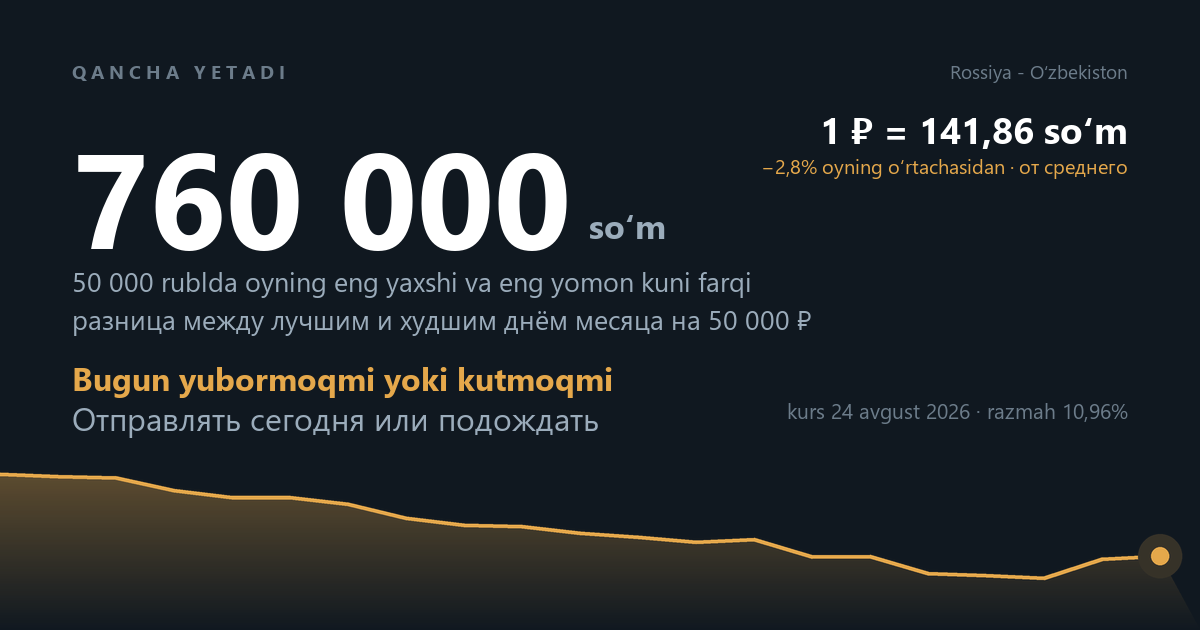
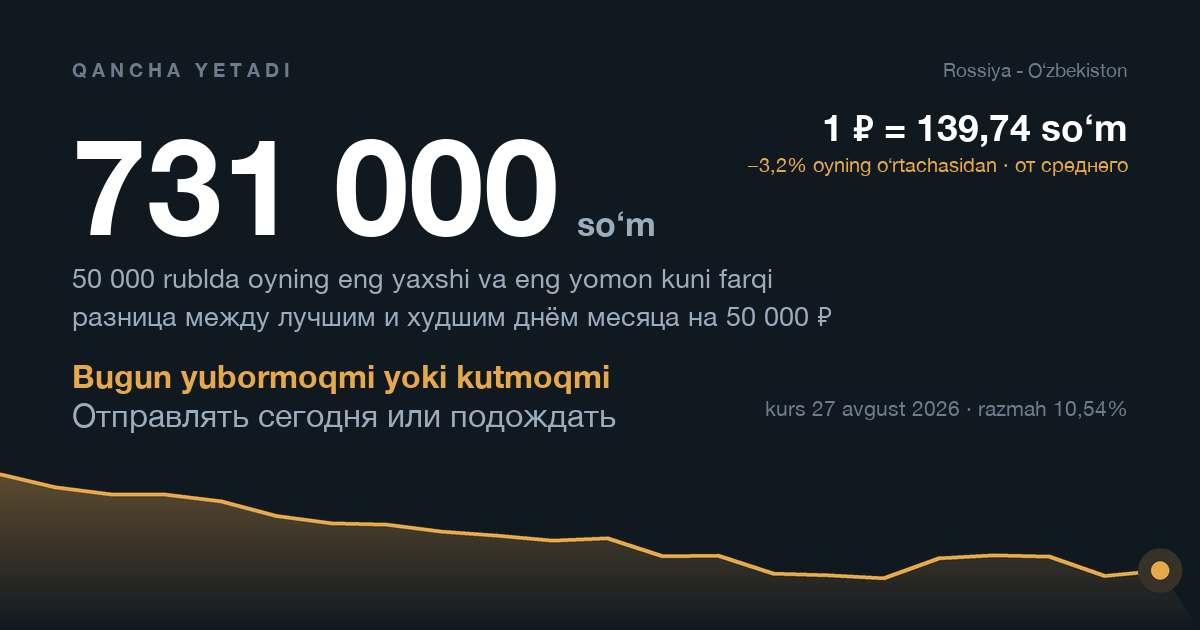
fix(oblozhka): собирать обложку на macOS и не терять знак рубля
Подбор шрифта знал только пути Windows и Linux. На macOS не находилось
ничего, и сборка обложки падала с SystemExit — а вместе с ней obnovit_vsyo.py
не доходил до поднятия ?v= в index.html, из-за чего Telegram продолжал бы
отдавать людям старую версию мини-аппа из кеша.

Добавлены Helvetica Neue и PT Sans с номерами начертаний внутри .ttc.
Arial, взятый первым подходящим, оказался ловушкой: кириллица в нём есть,
а знака рубля U+20BD нет, и PIL молча рисовал пустой квадрат посреди
«1 ₽ = 139,74» и «50 000 ₽». Поэтому шрифт теперь проверяется на ₽ и
отбраковывается, если не умеет его рисовать; если других нет — предупреждение
в журнал, а не тихая дыра в картинке.

Заодно веса разнесены по двум спискам вместо срезов одного. Раньше обычный
вес брался как SHRIFTY[2:] + SHRIFTY[:2], и на Linux первым в этом порядке
шёл DejaVuSans-Bold — обычному тексту доставался жирный шрифт.

Данные пересобраны из живых источников на курс 27 августа, версия скриптов 50.
proverit.py: все 8 наборов зелёные.

.gitignore: .venv/ — окружение для Pillow и sqlglot, в проект не входит.

Claude-Session: https://claude.ai/code/session_013XMc1hSP7nmokB4Uwgp8vk

diff --git a/kurs.html b/kurs.html
@@ -34,7 +34,7 @@
 <meta property="og:description" content="Отправлять сегодня или подождать. Курс ЦБ Узбекистана, курс переводов и разница в сумах на вашей сумме.">
 <meta property="og:type" content="website">
 <meta property="og:url" content="https://m1llerzz.github.io/KURS-/kurs.html">
-<meta property="og:image" content="https://m1llerzz.github.io/KURS-/oblozhka.png?v=20260824">
+<meta property="og:image" content="https://m1llerzz.github.io/KURS-/oblozhka.png?v=20260827">
 <meta property="og:image:width" content="1200">
 <meta property="og:image:height" content="630">
 <meta name="twitter:card" content="summary_large_image">
@@ -119,9 +119,9 @@
 </p>
 
 <div class="kurs">
-  <div class="big"><span data-zapas="kurs">141,86</span> сум за 1 ₽</div>
+  <div class="big"><span data-zapas="kurs">139,74</span> сум за 1 ₽</div>
   <div class="podpis">
-    Курс ЦБ Узбекистана на <span data-zapas="data_ru">24 августа 2026</span>.
+    Курс ЦБ Узбекистана на <span data-zapas="data_ru">27 августа 2026</span>.
     <span id="kurs-verdikt">Заметно ниже среднего за месяц.</span>
   </div>
 </div>
@@ -149,7 +149,7 @@
        публикацию, и круглое «тридцать» рядом с настоящими датами читается
        как нестыковка. Даты подставляет obnovit_zapas.py. -->
   Это главное, что стоит знать про переводы в Узбекистан, и об этом молчат
-  все. Замер по курсам ЦБ <span data-zapas="period_ru">с 24 июля по 24 августа 2026</span>, на переводе 50 000 ₽:
+  все. Замер по курсам ЦБ <span data-zapas="period_ru">с 29 июля по 27 августа 2026</span>, на переводе 50 000 ₽:
 </p>
 
 <div class="obertka">
@@ -159,21 +159,21 @@
   </thead>
   <tbody>
     <tr><td>День отправки</td>
-        <td class="num"><span data-zapas="razmah_percent">10,96</span>%</td>
-        <td class="num"><span data-zapas="razmah_sum">760 000</span></td></tr>
+        <td class="num"><span data-zapas="razmah_percent">10,54</span>%</td>
+        <td class="num"><span data-zapas="razmah_sum">731 000</span></td></tr>
     <tr><td>Сервис перевода</td>
-        <td class="num"><span data-zapas="nacenka_percent">2,72</span>%</td>
-        <td class="num"><span data-zapas="nacenka_sum">193 000</span></td></tr>
+        <td class="num"><span data-zapas="nacenka_percent">4,11</span>%</td>
+        <td class="num"><span data-zapas="nacenka_sum">287 000</span></td></tr>
     <tr><td>Банк получателя</td><td class="num">0,84%</td><td class="num">55 000</td></tr>
   </tbody>
 </table>
 </div>
 
 <p>
-  За этот месяц курс рубля прошёл путь от <span data-zapas="kurs_max">153,87</span>
+  За этот месяц курс рубля прошёл путь от <span data-zapas="kurs_max">153,29</span>
   до <span data-zapas="kurs_min">138,67</span> сума. Человек, отправивший в
   худший день месяца вместо лучшего, недосчитался
-  <span data-zapas="razmah_sum">760 000</span> сум на переводе 50 000 ₽.
+  <span data-zapas="razmah_sum">731 000</span> сум на переводе 50 000 ₽.
   Комиссия рядом с этим — мелочь.
 </p>
 
@@ -188,11 +188,11 @@
 <p>
   Официальный курс ЦБ — это не тот курс, по которому идёт перевод. Сервисы
   считают по своему, и разница нигде не написана отдельной строкой.
-  На <span data-zapas="data_ru">24 августа 2026</span> года: официальный
-  <span data-zapas="kurs">141,86</span>, курс переводов
-  <span data-zapas="kurs_servisa">138,00</span>. Разница
-  <span data-zapas="nacenka_percent">2,72</span>% — это
-  <span data-zapas="nacenka_sum">193 000</span> сум на переводе 50 000 ₽.
+  На <span data-zapas="data_ru">27 августа 2026</span> года: официальный
+  <span data-zapas="kurs">139,74</span>, курс переводов
+  <span data-zapas="kurs_servisa">134,00</span>. Разница
+  <span data-zapas="nacenka_percent">4,11</span>% — это
+  <span data-zapas="nacenka_sum">287 000</span> сум на переводе 50 000 ₽.
 </p>
 
 <p>
@@ -217,16 +217,16 @@
 
 <p class="vopros">Какой сегодня курс рубля к суму?</p>
 <p class="otvet">
-  На <span data-zapas="data_ru">24 августа 2026</span> официальный курс
-  ЦБ Узбекистана — <span data-zapas="kurs">141,86</span> сума за
+  На <span data-zapas="data_ru">27 августа 2026</span> официальный курс
+  ЦБ Узбекистана — <span data-zapas="kurs">139,74</span> сума за
   1 рубль. Перевод идёт по курсу около
-  <span data-zapas="kurs_servisa">138,00</span> сума за рубль.
+  <span data-zapas="kurs_servisa">134,00</span> сума за рубль.
 </p>
 
 <p class="vopros">Сколько дойдёт до карты при переводе 50 000 рублей?</p>
 <p class="otvet">
-  По курсу переводов <span data-zapas="kurs_servisa">138,00</span> —
-  около <span data-zapas="itog_50k">6 900 000</span> сумов, если сервис не
+  По курсу переводов <span data-zapas="kurs_servisa">134,00</span> —
+  около <span data-zapas="itog_50k">6 700 000</span> сумов, если сервис не
   берёт комиссию сверху. Комиссии сервисы не публикуют, поэтому это
   верхняя граница. Точная сумма зависит от дня отправки и от банка,
   который зачисляет деньги на карту.
@@ -237,7 +237,7 @@
   Разница между сервисами в этом коридоре почти нулевая: на открытых
   данных их два, и курс у них одинаковый. Настоящая разница — в дне
   отправки: за месяц курс менялся на
-  <span data-zapas="razmah_percent">10,96</span>%.
+  <span data-zapas="razmah_percent">10,54</span>%.
 </p>
 
 <p class="vopros">Стоит ли подождать с переводом?</p>
@@ -267,9 +267,9 @@
 </p>
 
 <div class="kurs">
-  <div class="big"><span data-zapas="kurs">141,86</span> soʻm — 1 ₽</div>
+  <div class="big"><span data-zapas="kurs">139,74</span> soʻm — 1 ₽</div>
   <div class="podpis">
-    Markaziy bank kursi, <span data-zapas="data_uz">24 avgust 2026</span>.
+    Markaziy bank kursi, <span data-zapas="data_uz">27 avgust 2026</span>.
   </div>
 </div>
 
@@ -282,19 +282,19 @@
 <h3>Eng koʻp pulni yuborish KUNI hal qiladi</h3>
 
 <p>
-  Oʻlchov (<span data-zapas="period_uz">24 iyul — 24 avgust 2026</span>), 50 000 rubl uchun: yuborish kuni —
-  <span data-zapas="razmah_percent">10,96</span>% yoki
-  <span data-zapas="razmah_sum">760 000</span> soʻm; servis tanlash —
-  <span data-zapas="nacenka_percent">2,72</span>% yoki
-  <span data-zapas="nacenka_sum">193 000</span> soʻm; qabul qiluvchi
+  Oʻlchov (<span data-zapas="period_uz">29 iyul — 27 avgust 2026</span>), 50 000 rubl uchun: yuborish kuni —
+  <span data-zapas="razmah_percent">10,54</span>% yoki
+  <span data-zapas="razmah_sum">731 000</span> soʻm; servis tanlash —
+  <span data-zapas="nacenka_percent">4,11</span>% yoki
+  <span data-zapas="nacenka_sum">287 000</span> soʻm; qabul qiluvchi
   bank — 0,84%.
 </p>
 
 <p>
-  Bir oyda rubl kursi <span data-zapas="kurs_max">153,87</span> dan
+  Bir oyda rubl kursi <span data-zapas="kurs_max">153,29</span> dan
   <span data-zapas="kurs_min">138,67</span> gacha tushdi. Eng yomon kunda
   yuborgan odam eng yaxshi kunga nisbatan
-  <span data-zapas="razmah_sum">760 000</span> soʻm kam oldi.
+  <span data-zapas="razmah_sum">731 000</span> soʻm kam oldi.
   Komissiya bunga nisbatan mayda gap.
 </p>
 
@@ -302,11 +302,11 @@
 
 <p>
   Rasmiy kurs — bu oʻtkazma kursi emas.
-  <span data-zapas="data_uz">24 avgust 2026</span>: rasmiy
-  <span data-zapas="kurs">141,86</span>, oʻtkazma
-  <span data-zapas="kurs_servisa">138,00</span>. Farqi
-  <span data-zapas="nacenka_percent">2,72</span>% — 50 000 rublda
-  <span data-zapas="nacenka_sum">193 000</span> soʻm. Bu komissiya
+  <span data-zapas="data_uz">27 avgust 2026</span>: rasmiy
+  <span data-zapas="kurs">139,74</span>, oʻtkazma
+  <span data-zapas="kurs_servisa">134,00</span>. Farqi
+  <span data-zapas="nacenka_percent">4,11</span>% — 50 000 rublda
+  <span data-zapas="nacenka_sum">287 000</span> soʻm. Bu komissiya
   emas, bu kurs, va u hech qayerda alohida yozilmagan.
 </p>
 

diff --git a/data.js b/data.js
@@ -58,14 +58,14 @@ window.SERVICES = [
     ],
     "fee_fixed": 0,
     "fee_percent": 0,
-    "rate_rub_uzs": 138.0,
+    "rate_rub_uzs": 131.0,
     "limit_per_operation": 100000,
     "delivery_minutes": 60,
     "incoming_fee": 0,
-    "checked_at": "2026-08-24T16:31:51+00:00",
+    "checked_at": "2026-08-27T18:51:19+00:00",
     "verified_by_receipt": false,
     "fee_unknown": false,
-    "nacenka_percent": 2.72,
+    "nacenka_percent": 6.25,
     "url": "https://yubor.ru/",
     "limit_min": 9000,
     "istochnik_uslovij": "yubor.ru, 16.08.2026"
@@ -79,14 +79,14 @@ window.SERVICES = [
     ],
     "fee_fixed": 29,
     "fee_percent": 0,
-    "rate_rub_uzs": 138.0,
+    "rate_rub_uzs": 134.0,
     "limit_per_operation": 200000,
     "delivery_minutes": 60,
     "incoming_fee": 0,
-    "checked_at": "2026-08-24T16:31:51+00:00",
+    "checked_at": "2026-08-27T18:51:19+00:00",
     "verified_by_receipt": false,
     "fee_unknown": false,
-    "nacenka_percent": 2.72,
+    "nacenka_percent": 4.11,
     "url": "https://avosend.com/",
     "limit_v_sutki": 380000,
     "limit_v_mesyac": 1500000,
@@ -112,7 +112,7 @@ window.BANKS = [];
  * Флаг zapas заставляет приложение честно предупредить: без свежего
  * курса весь расчёт становится ориентировочным.
  */
-window.KURSY_ZAPAS = {"usd_uzs": 11853.55, "rub_uzs": 141.86, "date": "24.08.2026", "zapas": true};
+window.KURSY_ZAPAS = {"usd_uzs": 11823.69, "rub_uzs": 139.74, "date": "27.08.2026", "zapas": true};
 
 /**
  * Запасная история курса рубля за 30 дней (курсы ЦБ, замер 15.08.2026).
@@ -120,15 +120,15 @@ window.KURSY_ZAPAS = {"usd_uzs": 11853.55, "rub_uzs": 141.86, "date": "24.08.202
  * главная ценность приложения, и терять его при сбое сети нельзя.
  */
 window.HISTORY_ZAPAS = [
-  { date: '2026-07-24', rub_uzs: 153.75 }, { date: '2026-07-27', rub_uzs: 153.87 },
-  { date: '2026-07-28', rub_uzs: 153.49 }, { date: '2026-07-29', rub_uzs: 153.29 },
-  { date: '2026-07-30', rub_uzs: 151.46 }, { date: '2026-07-31', rub_uzs: 150.44 },
-  { date: '2026-08-03', rub_uzs: 150.42 }, { date: '2026-08-04', rub_uzs: 149.48 },
-  { date: '2026-08-05', rub_uzs: 147.42 }, { date: '2026-08-06', rub_uzs: 146.37 },
-  { date: '2026-08-07', rub_uzs: 146.19 }, { date: '2026-08-10', rub_uzs: 145.21 },
-  { date: '2026-08-11', rub_uzs: 144.64 }, { date: '2026-08-12', rub_uzs: 143.93 },
-  { date: '2026-08-13', rub_uzs: 144.29 }, { date: '2026-08-14', rub_uzs: 141.76 },
-  { date: '2026-08-17', rub_uzs: 141.83 }, { date: '2026-08-18', rub_uzs: 139.32 },
-  { date: '2026-08-19', rub_uzs: 139.05 }, { date: '2026-08-20', rub_uzs: 138.67 },
-  { date: '2026-08-21', rub_uzs: 141.44 }, { date: '2026-08-24', rub_uzs: 141.86 },
+  { date: '2026-07-29', rub_uzs: 153.29 }, { date: '2026-07-30', rub_uzs: 151.46 },
+  { date: '2026-07-31', rub_uzs: 150.44 }, { date: '2026-08-03', rub_uzs: 150.42 },
+  { date: '2026-08-04', rub_uzs: 149.48 }, { date: '2026-08-05', rub_uzs: 147.42 },
+  { date: '2026-08-06', rub_uzs: 146.37 }, { date: '2026-08-07', rub_uzs: 146.19 },
+  { date: '2026-08-10', rub_uzs: 145.21 }, { date: '2026-08-11', rub_uzs: 144.64 },
+  { date: '2026-08-12', rub_uzs: 143.93 }, { date: '2026-08-13', rub_uzs: 144.29 },
+  { date: '2026-08-14', rub_uzs: 141.76 }, { date: '2026-08-17', rub_uzs: 141.83 },
+  { date: '2026-08-18', rub_uzs: 139.32 }, { date: '2026-08-19', rub_uzs: 139.05 },
+  { date: '2026-08-20', rub_uzs: 138.67 }, { date: '2026-08-21', rub_uzs: 141.44 },
+  { date: '2026-08-24', rub_uzs: 141.86 }, { date: '2026-08-25', rub_uzs: 141.69 },
+  { date: '2026-08-26', rub_uzs: 138.96 }, { date: '2026-08-27', rub_uzs: 139.74 },
 ];

diff --git a/index.html b/index.html
@@ -17,7 +17,7 @@
      единственный бесплатный источник роста, который у нас есть. Карточка
      без картинки выглядит в чате бледной строкой, и её пролистывают.
      Число на обложке живое: пересобирается `bot/sobrat_oblozhku.py`. -->
-<meta property="og:image" content="https://m1llerzz.github.io/KURS-/oblozhka.png?v=20260824">
+<meta property="og:image" content="https://m1llerzz.github.io/KURS-/oblozhka.png?v=20260827">
 <meta property="og:image:width" content="1200">
 <meta property="og:image:height" content="630">
 <meta name="twitter:card" content="summary_large_image">
@@ -779,9 +779,9 @@
      ?v= обязателен: Telegram держит файлы мини-аппа в кеше по нескольку
      часов, и без смены адреса человек продолжает видеть старую версию.
      Правило: поменял js — увеличил число здесь, иначе правка не доедет. -->
-<script src="i18n.js?v=49"></script>
-<script src="data.js?v=49"></script>
-<script src="calc.js?v=49"></script>
-<script src="app.js?v=49"></script>
+<script src="i18n.js?v=50"></script>
+<script src="data.js?v=50"></script>
+<script src="calc.js?v=50"></script>
+<script src="app.js?v=50"></script>
 </body>
 </html>

diff --git a/bot/sobrat_oblozhku.py b/bot/sobrat_oblozhku.py
@@ -62,29 +62,84 @@ GRAFIK_POLE = 34          # воздух над самой высокой точ
 MESYACY = ["yanvar", "fevral", "mart", "aprel", "may", "iyun",
            "iyul", "avgust", "sentabr", "oktabr", "noyabr", "dekabr"]
 
-SHRIFTY = [
+# Веса держим двумя раздельными списками, а не одним со срезами. Раньше это
+# был один список, и обычный вес брался как SHRIFTY[2:] + SHRIFTY[:2] — на
+# Linux первым в этом порядке оказывался DejaVuSans-Bold, то есть обычному
+# тексту доставался жирный шрифт. Списки по весам такую ошибку не позволяют.
+#
+# macOS появился здесь 27.08.2026 при переезде с Windows: без него шрифт не
+# находился вовсе и сборка обложки падала с SystemExit.
+#
+# Элемент — либо путь, либо пара (путь, номер начертания внутри .ttc).
+SHRIFTY_ZHIRNYE = [
     "C:/Windows/Fonts/segoeuib.ttf",
     "C:/Windows/Fonts/seguisb.ttf",
-    "C:/Windows/Fonts/segoeui.ttf",
+    ("/System/Library/Fonts/HelveticaNeue.ttc", 1),      # Helvetica Neue Bold
+    ("/System/Library/Fonts/Supplemental/PTSans.ttc", 7),  # PT Sans Bold
     "/usr/share/fonts/truetype/dejavu/DejaVuSans-Bold.ttf",
+]
+
+SHRIFTY_OBYCHNYE = [
+    "C:/Windows/Fonts/segoeui.ttf",
+    ("/System/Library/Fonts/HelveticaNeue.ttc", 0),      # Helvetica Neue
+    ("/System/Library/Fonts/Supplemental/PTSans.ttc", 0),  # PT Sans
     "/usr/share/fonts/truetype/dejavu/DejaVuSans.ttf",
 ]
 
+# Обложка печатает суммы в рублях, поэтому шрифт без знака ₽ (U+20BD) для неё
+# не годится: PIL молча рисует пустой квадрат, и картинка уходит в чаты с
+# дырой посреди числа. Ровно это случилось 27.08.2026 на macOS, когда сюда
+# подставили Arial: кириллица есть, рубля нет.
+PROVERKA_RUBLYA = "\u20bd"
+
+
+def _umeet_rubl(fnt):
+    """True, если шрифт рисует ₽, а не пустой квадрат."""
+    try:
+        maska = fnt.getmask(PROVERKA_RUBLYA)
+        return maska.getbbox() is not None
+    except Exception:
+        return False
+
+
+def _otkryt(zapis, razmer):
+    put, nomer = zapis if isinstance(zapis, tuple) else (zapis, 0)
+    if not os.path.exists(put):
+        return None
+    try:
+        return ImageFont.truetype(put, razmer, index=nomer)
+    except Exception:
+        return None
+
 
 def shrift(razmer, zhirny=True):
-    """Первый найденный шрифт нужного веса.
+    """Первый найденный шрифт нужного веса, умеющий кириллицу и ₽.
 
     Кириллица и латиница обязаны рисоваться оба: обложка двуязычная.
     Встроенный шрифт PIL умеет только латиницу, и на нём русская строка
     превратилась бы в квадраты.
+
+    Если нужного веса в системе нет, берём другой вес — кривое начертание
+    лучше, чем отсутствие обложки. Шрифт без ₽ идёт в самый конец очереди:
+    он годится, только когда других нет вовсе.
     """
-    poryadok = SHRIFTY if zhirny else SHRIFTY[2:] + SHRIFTY[:2]
-    for put in poryadok:
-        if os.path.exists(put):
-            try:
-                return ImageFont.truetype(put, razmer)
-            except Exception:
-                continue
+    nuzhnyy = SHRIFTY_ZHIRNYE if zhirny else SHRIFTY_OBYCHNYE
+    zapasnoy = SHRIFTY_OBYCHNYE if zhirny else SHRIFTY_ZHIRNYE
+
+    bez_rublya = None
+    for zapis in nuzhnyy + zapasnoy:
+        fnt = _otkryt(zapis, razmer)
+        if fnt is None:
+            continue
+        if _umeet_rubl(fnt):
+            return fnt
+        if bez_rublya is None:
+            bez_rublya = fnt
+
+    if bez_rublya is not None:
+        print("  ВНИМАНИЕ: в найденном шрифте нет знака ₽ — на обложке будет "
+              "пустой квадрат вместо него", flush=True)
+        return bez_rublya
     raise SystemExit("не найден ни один шрифт с кириллицей — обложку не собрать")
 
 
